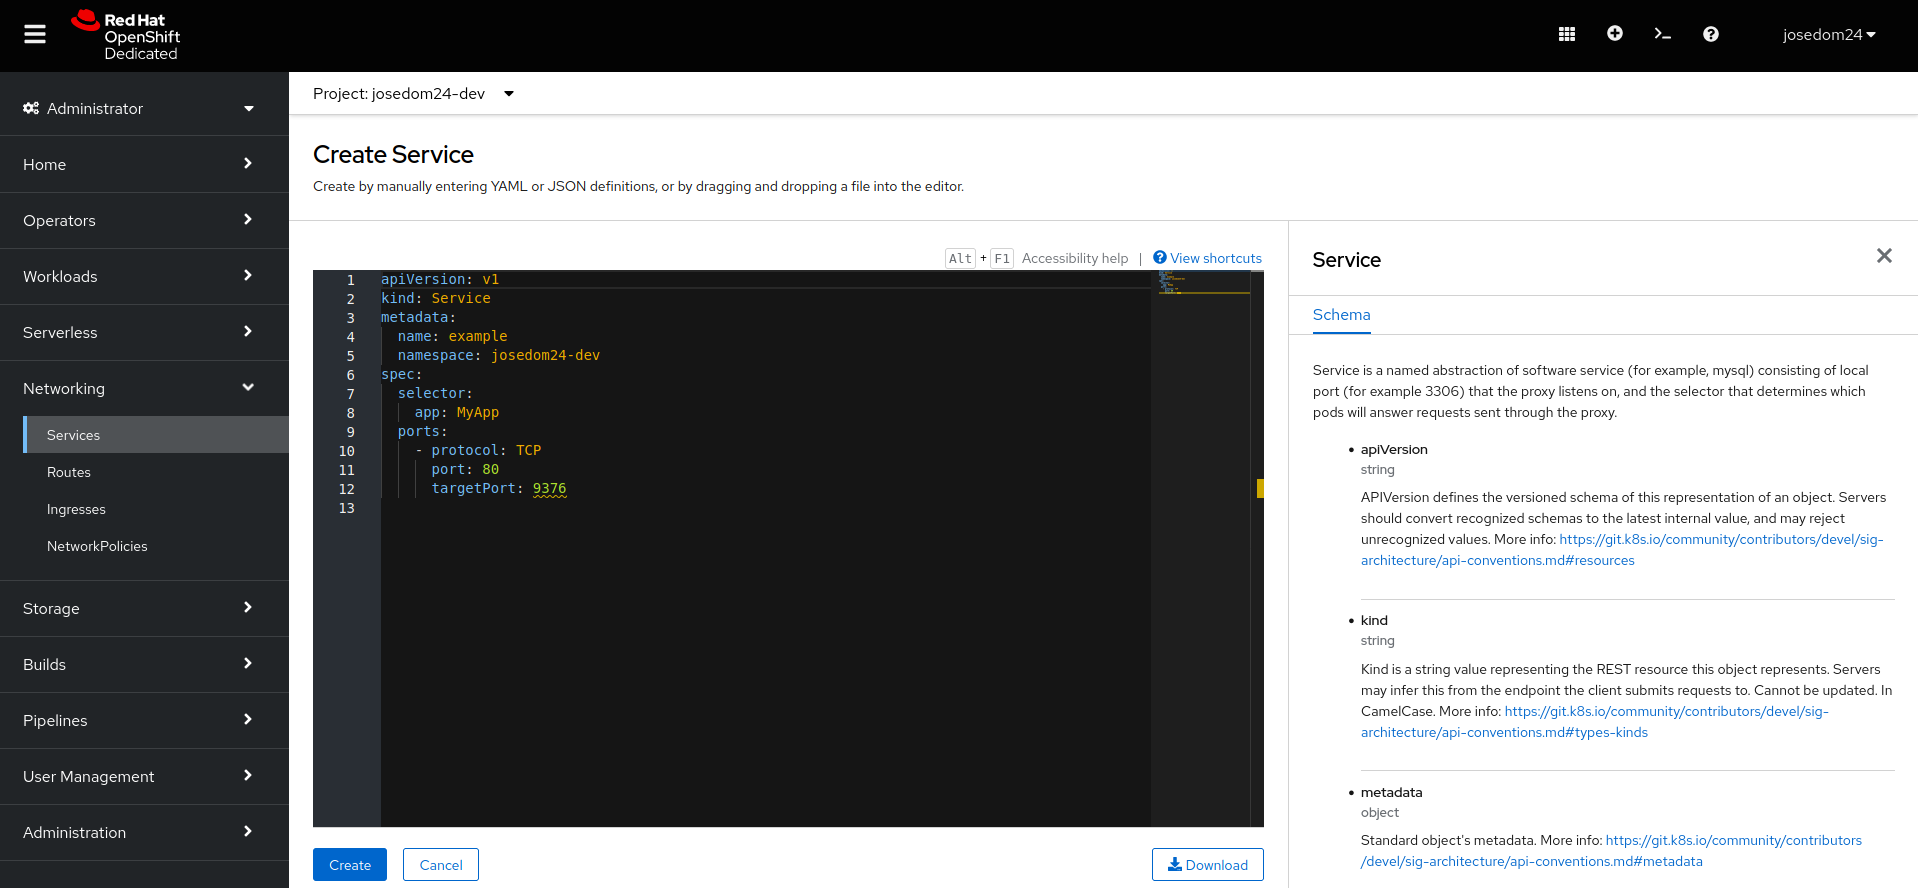
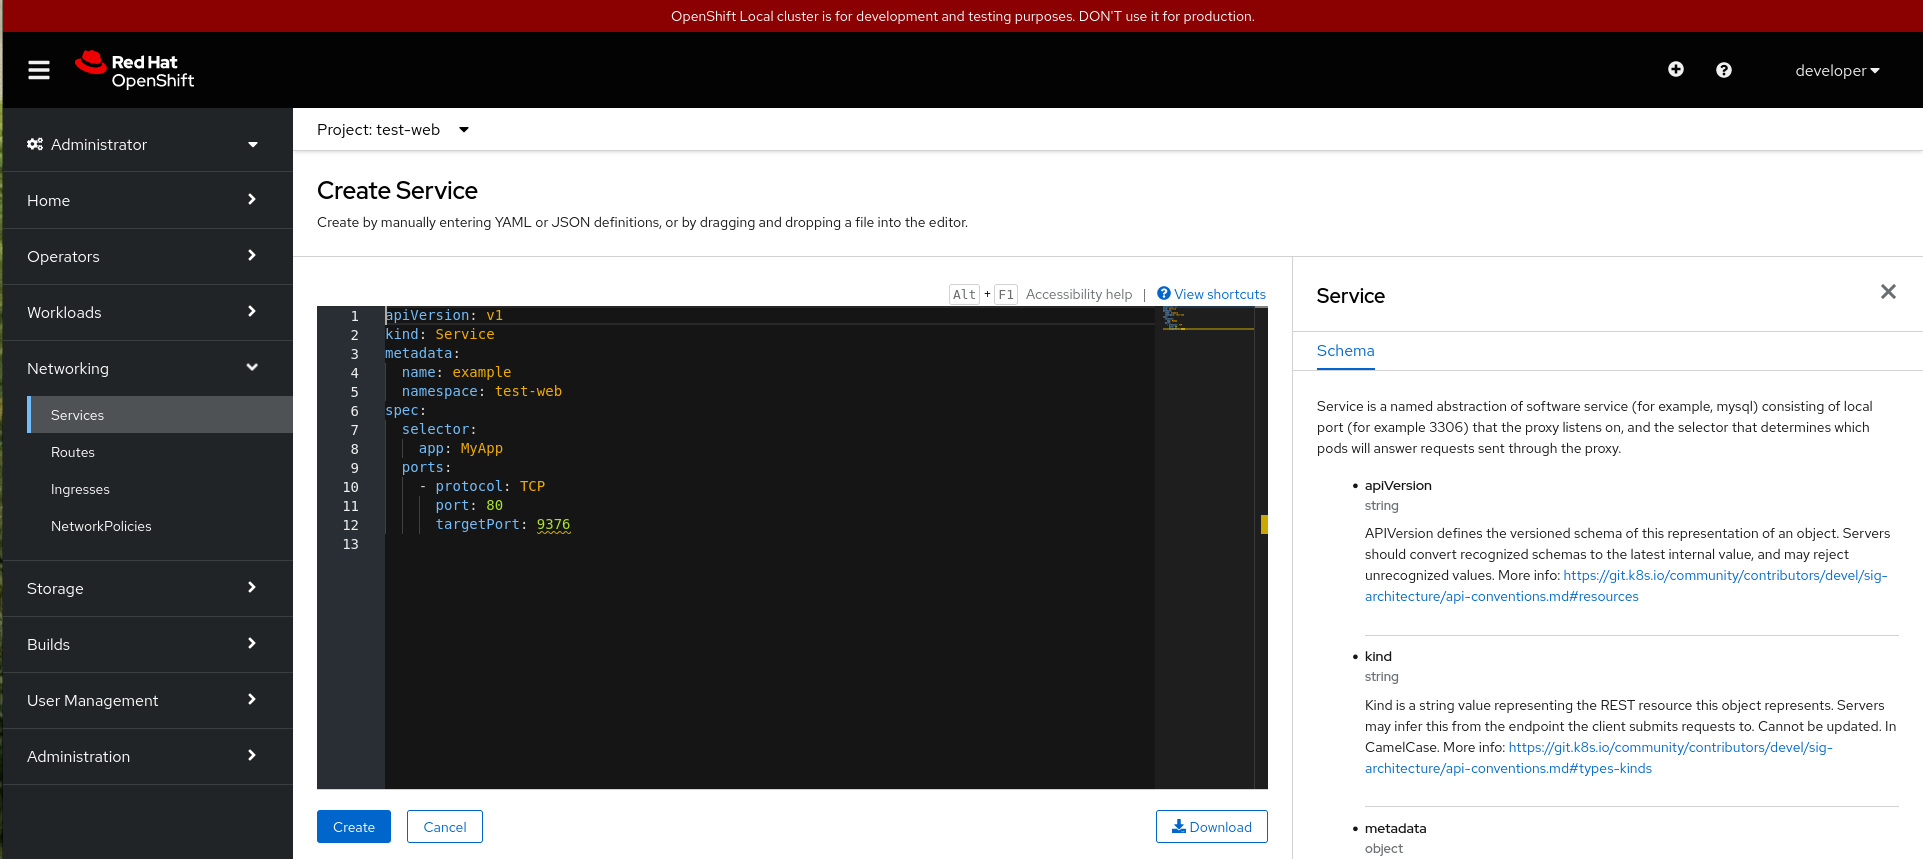
Módulo4

diff --git a/curso1/modulo4/recursos.md b/curso1/modulo4/recursos.md
@@ -4,29 +4,29 @@
 
 Los servicios ([Services](https://kubernetes.io/docs/concepts/services-networking/service/)) nos permiten acceder a las aplicaciones que hemos desplegado en el cluster.
 
-* Un Service es una abstracción que **nos permite acceder a un conjunto de Pods** (que se han creado a partir de un Deployment) que implementan una aplicación (Por ejemplo: acceder a un servidor web, a una servidor de base de datos, a un servicio que forma parte de una aplicación, ...).
-* A cada Pod se le asigna una IP a la que no se puede acceder directamente, por lo tanto necesitamos un Service que nos ofrece **una dirección virtual (CLUSTER-IP) y un nombre** que identifica al conjunto de Pods que representa, al cual nos podemos conectar.
-* La conexión al Service se puede realizar **desde otros Pods o desde el exterior** (mediante la generación aleatoria de un puerto). Por ejemplo, si tenemos una aplicación formada por dos Services: servidor web y servidor de base de datos, tendremos que acceder desde el exterior al servidor web, y acceder al servidor de base de datos desde el servidor web. En principio no será necesario acceder al servidor de base de datos desde el exterior.
-* Si el Deployment que hemos creado tiene más de un Pod asociado, el Service que representa el acceso a esta aplicación **balanceará la carga** entre los Pods con una política Round Robin.
-* En el cluster existirá un componente que nos ofrece un **servicio DNS**. Cada vez que creamos un Service se actualizará el DNS para resolver el nombre que hemos asignado al Service con la IP virtual (CLUSTER-IP) que se le ha asignado.
+* Un **Service** es una abstracción que **nos permite acceder a un conjunto de Pods** (que se han creado a partir de un Deployment) que implementan una aplicación (Por ejemplo: acceder a un servidor web, a una servidor de base de datos, a un servicio que forma parte de una aplicación, ...).
+* A cada Pod se le asigna una IP a la que no se puede acceder directamente, por lo tanto necesitamos un **Service** que nos ofrece **una dirección virtual (CLUSTER-IP) y un nombre** que identifica al conjunto de Pods que representa, al cual nos podemos conectar.
+* La conexión al **Service** se puede realizar **desde otros Pods o desde el exterior** (mediante la generación aleatoria de un puerto). Por ejemplo, si tenemos una aplicación formada por dos **Services**: servidor web y servidor de base de datos, tendremos que acceder desde el exterior al servidor web, y acceder al servidor de base de datos desde el servidor web. En principio no será necesario acceder al servidor de base de datos desde el exterior.
+* Si el Deployment que hemos creado tiene más de un Pod asociado, el **Service** que representa el acceso a esta aplicación **balanceará la carga** entre los Pods con una política Round Robin.
+* En el cluster existirá un componente que nos ofrece un **servicio DNS**. Cada vez que creamos un **Service** se actualizará el DNS para resolver el nombre que hemos asignado al **Service** con la IP virtual (CLUSTER-IP) que se le ha asignado.
 
 ### Tipos de Services
 
 #### ClusterIP
 
-Solo se permite el acceso interno a un Service de este tipo. Es decir, si tenemos un despliegue con una aplicación a la que no es necesario acceder desde el exterior, crearemos un Service de este tipo para que otras aplicaciones puedan acceder a ella (por ejemplo, una base de datos). Es el tipo por defecto. 
+Solo se permite el acceso interno a un **Service** de este tipo. Es decir, si tenemos un despliegue con una aplicación a la que no es necesario acceder desde el exterior, crearemos un **Service** de este tipo para que otras aplicaciones puedan acceder a ella (por ejemplo, una base de datos). Es el tipo por defecto. 
 
 ![clusterip](img/clusterip.png)
 
 #### NodePort
 
-Abre un puerto, para que el Service sea accesible desde el exterior. Por defecto el puerto generado está en el rango de 30000:40000. Para acceder usamos la ip del servidor master del cluster y el puerto asignado.
+Abre un puerto, para que el **Service** sea accesible desde el exterior. Por defecto el puerto generado está en el rango de 30000:40000. Para acceder usamos la ip del servidor master del cluster y el puerto asignado.
 
 ![nodeport](img/nodeport.png)
 
 #### LoadBalancer
 
-Este tipo sólo está soportado en servicios de cloud público (GKE, AKS o AWS). El proveedor asignará un recurso de balanceo de carga para el acceso a los Services. Si usamos un cloud privado como OpenStack, necesitaremos un plugin para configurar el funcionamiento. Este tipo de Service no lo vamos a utilizar en el presente curso.
+Este tipo sólo está soportado en servicios de cloud público (GKE, AKS o AWS). El proveedor asignará un recurso de balanceo de carga para el acceso a los **Services**. Si usamos un cloud privado como OpenStack, necesitaremos un plugin para configurar el funcionamiento. Este tipo de **Service** no lo vamos a utilizar en el presente curso.
 
 ![loadbalancer](img/loadbalancer.png)
 
@@ -38,7 +38,7 @@ Un [Ingress controller](https://kubernetes.io/docs/concepts/services-networking/
 
 ## Routes
 
-Un recurso Route es un recurso de OpenShift, muy similar al recurso Ingress, que permite exponer una aplicación a través de una URL personalizada y fácilmente recordable.
+Un recurso **Route** es un recurso de OpenShift, muy similar al recurso **Ingress**, que permite exponer una aplicación a través de una URL personalizada y fácilmente recordable.
 
 Cuando se crea una ruta para una aplicación en OpenShift, se genera una URL única que se asocia con un servicio.
 
@@ -46,14 +46,3 @@ La ventaja de usar rutas en OpenShift es que permiten a los desarrolladores desa
 
 Además también permiten a los desarrolladores configurar HTTPS, el balanceo de carga, la autenticación y la autorización, lo que ayuda a mejorar la seguridad y la disponibilidad de la aplicación expuesta.
 
-## Acceso de las aplicaciones en OpenShift Dedicated Developer Sandbox
-
-Cuando trabajamos con OpenShift Dedicated Developer Sandbox, no tenemos acceso directo a las IP de los nodos del clúster, esto tiene dos consecuencias:
-
-* No vamos a usar **services de tipo NodePort** para el acceso a las aplicaciones desde el exterior.
-* Si necesitamos una URL para el acceso a la aplicación, no vamos a usar el recurso **ingress** ya que no podemos asociar el nombre de dominio a una dirección IP.
-
-¿Cómo vamos a cceder a las aplicaciones desplegadas en OpenShift Dedicated Developer Sandbox?
-
-* Siembre vamos a usar recursos del tipo **Service ClusterIP** para el acceso a las aplicaciones.
-* A las aplicaciones a las que necesitamos acceder desde el exterior, le vamos a crear un recurso de tipo **Route**, que nos generará de forma automática una URL, que usaremos para el acceso.

diff --git a/curso1/modulo4/services.md b/curso1/modulo4/services.md
@@ -1,12 +1,14 @@
 # Trabajando con Services
 
-Suponemos que tenemos desplegado la aplicacion `test-web` del capítulo anterior. Tenemos dos Pods ofreciendo el servidor web nginx, a los que queremos acceder desde el exterior y que se balancee la carga entre ellos.
+Suponemos que tenemos desplegado la aplicación `test-web` del capítulo anterior. Tenemos dos Pods ofreciendo el servidor web nginx, a los que queremos acceder desde el exterior y que se balancee la carga entre ellos.
 
-Podríamos crear un recurso Service desde la línea de comandos:
+## Service ClusterIP
+
+Podríamos crear un recurso **Service** desde la línea de comandos:
 
     oc expose deployment/test-web 
 
-También podemos describir las características del Service en un fichero yaml `service.yaml`:
+También podemos describir las características del **Service** en un fichero yaml `service.yaml`:
 
 ```yaml
 kind: Service
@@ -32,19 +34,7 @@ Veamos la descripción:
 * A continuación, definimos el puerto por el que va a ofrecer el Service y lo nombramos (dentro del apartado `port`: el parámetro `port` y el parámetro `name`). Además, debemos indicar el puerto en el que los Pods están ofreciendo el Service (parámetro `targetPort`)
 * Por ultimo, seleccionamos los Pods a los que vamos acceder y vamos a balancear la carga seleccionando los Pods por medio de sus etiquetas (parámetro `selector`).
 
-**Nota: La definición de un Service de tipo NodePort sería exactamente igual, pero cambiando el parámetro `type`.**
-
-Podemos crear el Service de tipo NodePort que nos permitirá acceder la aplicación:
-
-    oc apply -f service.yaml
-
-Para ver los Services que tenemos creado:
-
-    oc get services
-
-Recuerda que si usamos `oc get all` también se mostrarán los Services.
-
-Antes de acceder a la aplicación podemos ver la información más detallada del Service que acabamos de crear:
+Podemos ver la información más detallada del **Service** que acabamos de crear:
 
     oc describe service/test-web
     Name:              test-web
@@ -65,4 +55,51 @@ Antes de acceder a la aplicación podemos ver la información más detallada del
 * El puerto por el que ofrece el Service (`Port`). 
 * El puerto de los Pods a los que redirige el tráfico (`TargetPort`).
 * Y por último, podemos ver las IPs de los Pods que ha seleccionado y sobre los que balanceará la carga (`Endpoints`).
+
+## Services NodePort
+
+La definición de un **Service** de tipo `NodePort` sería exactamente igual, pero cambiando el parámetro `type`. Por ejemplo, lo tenemos definido en el fichero `service-np.yaml`:
+
+```yaml
+kind: Service
+apiVersion: v1
+metadata:
+  name: test-web-np
+  labels:
+    app: test-web
+spec:
+  type: NodePort
+  ports:
+    - name: http
+      port: 8080
+      targetPort: 8080
+  selector:
+    app: test-web
+```
+
+Creamos el recurso:
+    oc apply -f service-np.yaml
+
+Para ver los **Services** que tenemos creado:
+
+    oc get services
+
+    NAME          TYPE        CLUSTER-IP     EXTERNAL-IP   PORT(S)          AGE
+    test-web      ClusterIP   10.217.4.144   <none>        8080/TCP         7s
+    test-web-np   NodePort    10.217.5.209   <none>        8080:30737/TCP   4s
+
+Recuerda que si usamos `oc get all` también se mostrarán los **Services**.
+
+Vamos a acceder a la aplicación, necesitamos saber la dirección IP del nodo master del clúster, para ello ejecuto:
+
+    crc ip
+    192.168.130.11
+
+Por lo tanto para acceder necesito esa dirección IP y el puerto que se ha asignado al **Service** `NodePort`, en nuestro caso `30737`:
+
+![nodeport](img/nodeport2.png)
+
+Para eliminar el **Service**, ejecutamos:
+
+    oc delete service/test-web-np
 

diff --git a/curso1/modulo4/dns.md b/curso1/modulo4/dns.md
@@ -2,18 +2,18 @@
 
 Existe un componente en OpenShift que ofrece un servidor DNS interno para que los Pods puedan resolver diferentes nombres de recursos (Services, Pods, ...) a direcciones IP.
 
-Cada vez que se crea un nuevo recurso Service se crea un registro de tipo A con el nombre:
+Cada vez que se crea un nuevo recurso **Service** se crea un registro de tipo A con el nombre:
 
     <nombre_servicio>.<nombre_namespace>.svc.cluster.local.
 
 ## Comprobemos el servidor DNS
 
-Partimos del punto anterior donde tenemos creados un Service:
+Partimos del punto anterior donde tenemos creado un **Service**:
 
     oc get services
     test-web            ClusterIP   172.30.211.73   <none>        8080/TCP  
    
-Para comprobar el servidor DNS de nuestro clúster y que podemos resolver los nombres de los distintos Services, vamos a usar un Pod, cuya definción esta en el fichero `busybox.yaml` creado desde una imagen `busybox`.  Es una imagen muy pequeña pero con algunas utilidades que nos vienen muy bien:
+Para comprobar el servidor DNS de nuestro clúster y que podemos resolver los nombres de los distintos **Services**, vamos a usar un Pod, cuya definición esta en el fichero `busybox.yaml` creado desde una imagen `busybox`.  Es una imagen muy pequeña pero con algunas utilidades que nos vienen muy bien:
 
 ```yaml
 apiVersion: v1
@@ -37,21 +37,21 @@ Creamos el pod:
 ¿Qué servidor DNS está configurado en los Pods que estamos creando? Podemos ejecutar la siguiente instrucción para comprobarlo:
 
     oc exec -it busybox -- cat /etc/resolv.conf
-    search josedom24-dev.svc.cluster.local svc.cluster.local cluster.local ec2.internal
-    nameserver 172.30.0.10
+    search test-web.svc.cluster.local svc.cluster.local cluster.local crc.testing
+    nameserver 10.217.4.10
 
+* El servidor DNS tiene asignado la IP del clúster 10.217.4.10.
+* Podemos utilizar el nombre corto del **Service**, porque buscará el nombre del host totalmente cualificado usando los dominios indicados en el parámetro `search`. Como vemos el primer nombre de dominio es el que se crea con los **Services**: `test-web.svc.cluster.local svc.cluster.local` (recuerda que el proyecto que estamos usando es `test-web`).
 
-* El servidor DNS tiene asignado la IP del clúster 172.30.0.10.
-* Podemos utilizar el nombre corto del Service, porque buscará el nombre del host totalmente cualificado usando los dominios indicados en el parámetro `search`. Como vemos el primer nombre de dominio es el que se crea con los Services: `josedom24-dev.svc.cluster.local` (recuerda que el *namespace* que estamos usando es `josedom24-dev`).
-
-Vamos a comprobar que realmente se ha creado un registro A para el Service, haciendo consultas DNS:
+Vamos a comprobar que realmente se ha creado un registro A para el **Service**, haciendo consultas DNS:
 
     oc exec -it busybox -- nslookup test-web
-    Server:		172.30.0.10
-    Address:	172.30.0.10:53
+    Server:		10.217.4.10
+    Address:	10.217.4.10:53
     ...
-    Name:	test-web.josedom24-dev.svc.cluster.local
-    Address: 172.30.211.73
+    Name:	test-web.test-web.svc.cluster.local
+    Address: 10.217.4.144
+    
 
 Vemos que ha hecho la resolución del nombre `test-web` con la IP correspondiente a su servicio.
 

diff --git a/curso1/modulo4/acceso_web.md b/curso1/modulo4/acceso_web.md
@@ -2,7 +2,7 @@
 
 ## Services
 
-Desde la vista **Developer**, en la sección **Topology**, vemos todos los recursos que tenemos creado. Si elegimos un depliegue podremos acceder a los servicios y routes asociadas a él:
+Desde la vista **Developer**, en la sección **Topology**, vemos todos los recursos que tenemos creado. Si elegimos un **Deployment** podremos acceder a los **Services** y **Routes** asociadas a él:
 
 ![acceso1](img/acceso1.png)
 
@@ -10,7 +10,7 @@ Otra forma de acceder a los recursos de acceso sería en la vista de **Administr
 
 ![acceso2](img/acceso2.png)
 
-En el botón final (con tres puntos) tenemos las acciones que podemos realizar sobre un Service en particular.
+En el botón final (con tres puntos) tenemos las acciones que podemos realizar sobre un **Service** en particular.
 
 En esta pantalla también tenemos un botón **Create Service** que nos permite la creación de un nuevo servicio:
 
@@ -18,33 +18,36 @@ En esta pantalla también tenemos un botón **Create Service** que nos permite l
 
 **Nota**: También podemos ejecutar un fichero yaml desde la vista **Developer**, sección **+Add** y la opción **Import YAML** (es lo mismo que el icono **+** que encontramos en la parte superior derecha).
 
-
-Si pinchamos sobre un Service, obtenemos los detalles del mismo:
+Si pinchamos sobre un **Service**, obtenemos los detalles del mismo:
 
 ![acceso4](img/acceso4.png)
 
 En esta pantalla tenemos varias opciones:
 
-* **Details**: Nos da información del recurso, en este caso del Service seleccionado.
+* **Details**: Nos da información del recurso, en este caso del **Service** seleccionado.
 * **YAML**: Podemos editar el YAML con todos los parámetros del recurso.
-* **Pods**: Nos ofrece la lista dcon los Pods seleccionados por el Service.
+* **Pods**: Nos ofrece la lista con los Pods seleccionados por el **Service**.
 
 ## Routes
 
-El recurso Route se gestiona de forma similar desde la consola web. En el apartado **Networking -> Routes**, encontramos la lista de recursos Routes:
+El recurso **Route** se gestiona de forma similar desde la consola web. En el apartado **Networking -> Routes**, encontramos la lista de recursos **Routes**:
 
 ![acceso5](img/acceso5.png)
 
-También tenemos a nuestra disposición una opción para crear nuevas rutas, con el botón **Create Route**:
+También tenemos a nuestra disposición una opción para crear nuevas rutas, con el botón **Create Route**. Desde el fichero YAML:
 
 ![acceso6](img/acceso6.png)
 
-Y sie escogemos una ruta determinada, obtenemos información de la misma:
+O usando un formulario:
 
 ![acceso7](img/acceso7.png)
 
+Y si escogemos una ruta determinada, obtenemos información de la misma:
+
+![acceso8](img/acceso8.png)
+
 En esta pantalla tenemos varias opciones:
 
-* **Details**: Nos da información del recurso, en este caso del Route seleccionado.
+* **Details**: Nos da información del recurso, en este caso del **Route** seleccionado.
 * **Metrics**: Métricas de acceso.
 * **YAML**: Podemos editar el YAML con todos los parámetros del recurso.

diff --git a/curso1/modulo4/routes.md b/curso1/modulo4/routes.md
@@ -2,7 +2,7 @@
 
 ## Ingress
 
-Aunque podríamos utilizar la definción de un recurso ingress para el acceso a la aplicación usando una URL, por ejemplo con n fichero `ingress.yaml`:
+Aunque podríamos utilizar la definición de un recurso **ingress** para el acceso a la aplicación usando una URL, por ejemplo con un fichero `ingress.yaml`:
 
 ```yaml
 apiVersion: networking.k8s.io/v1
@@ -23,7 +23,7 @@ spec:
               number: 8080
 ```
 
-En la definción hemos inciado los siguientes parámetros:
+En la definición hemos iniciado los siguientes parámetros:
 
 * `host`: Indicamos el nombre de host que vamos a usar para el acceso. Este nombre debe apuntar a la ip de un nodo del clúster.
 * `path`: Indicamos el path de la url que vamos a usar, en este caso sería la ruta raíz: `/`. 
@@ -34,9 +34,9 @@ Y podríamos crear el recurso, ejecutando:
 
     oc apply -f ingress.yaml
 
-El problema que tenemos, al estar usando OpenShift Dedicated Developer Sandbox, es que no tenemos acceso a la URL de los nodos del clúster, por lo que en nuestro servidor DNS no podemos asociar la URL con una dirección IP.
+**Nota:** Si estamos usando **OpenShift Dedicated Developer Sandbox**, no tenemos acceso a la dirección IP del nodo master del clúster, por lo que en nuestro servidor DNS no podemos asociar la URL con una dirección IP. De la misma manera, no podremos usar run recurso **Service** de tipo `NodePort`.
 
-**En OpenShift se recomienda el uso de recursos routes, que nos asignan de forma automática una URL que podemos usar directamente (está dada de alta en un servidor DNS)**.
+**En OpenShift se recomienda el uso de recursos Routes, que nos asignan de forma automática una URL que podemos usar directamente (está dada de alta en un servidor DNS)**.
 
 ## Route
 
